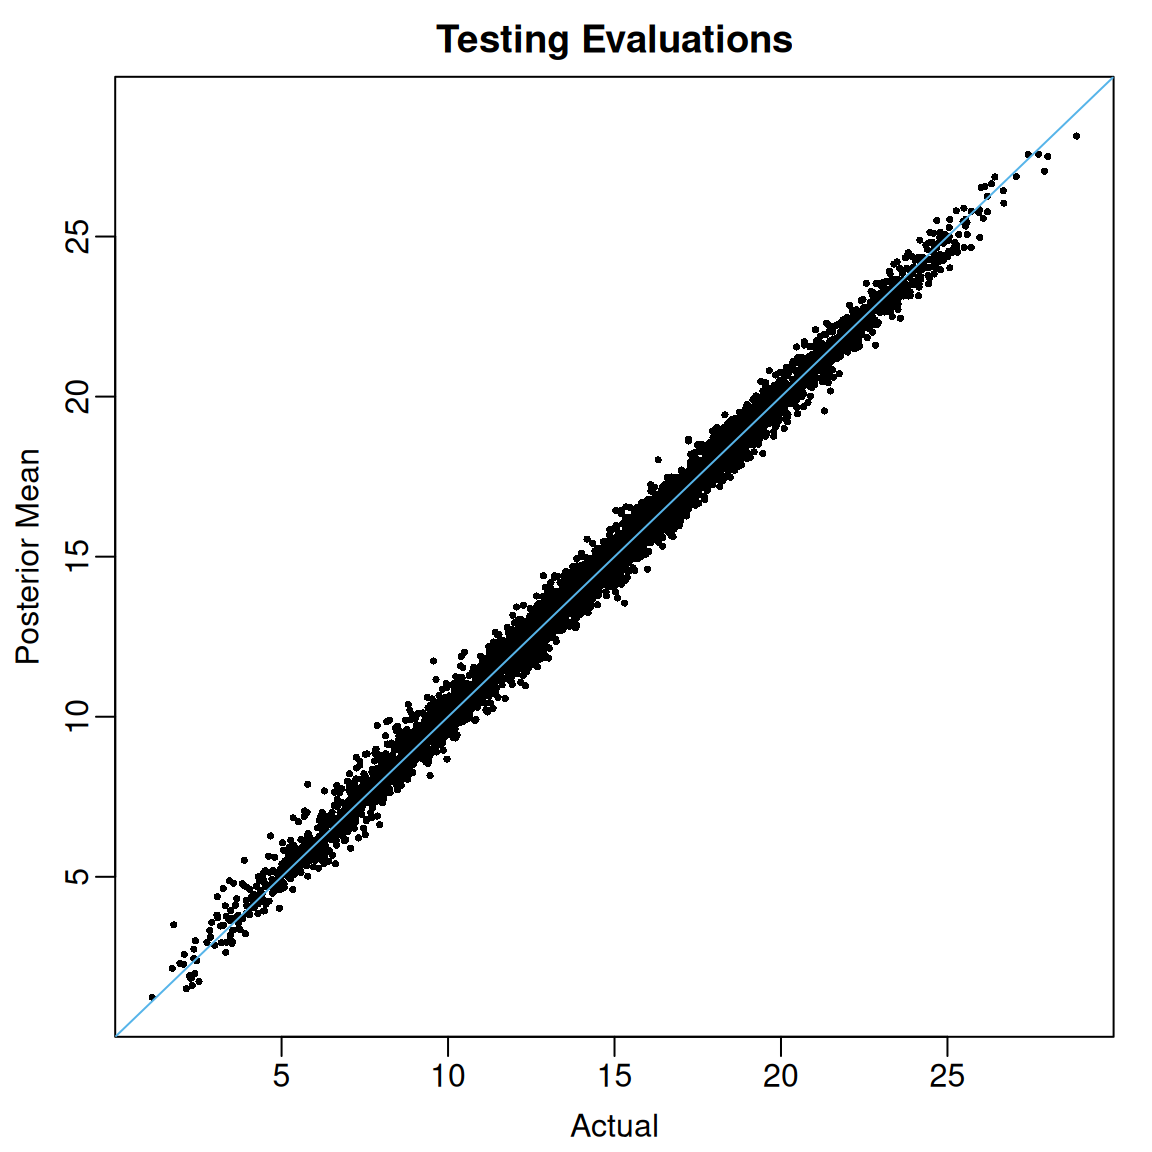
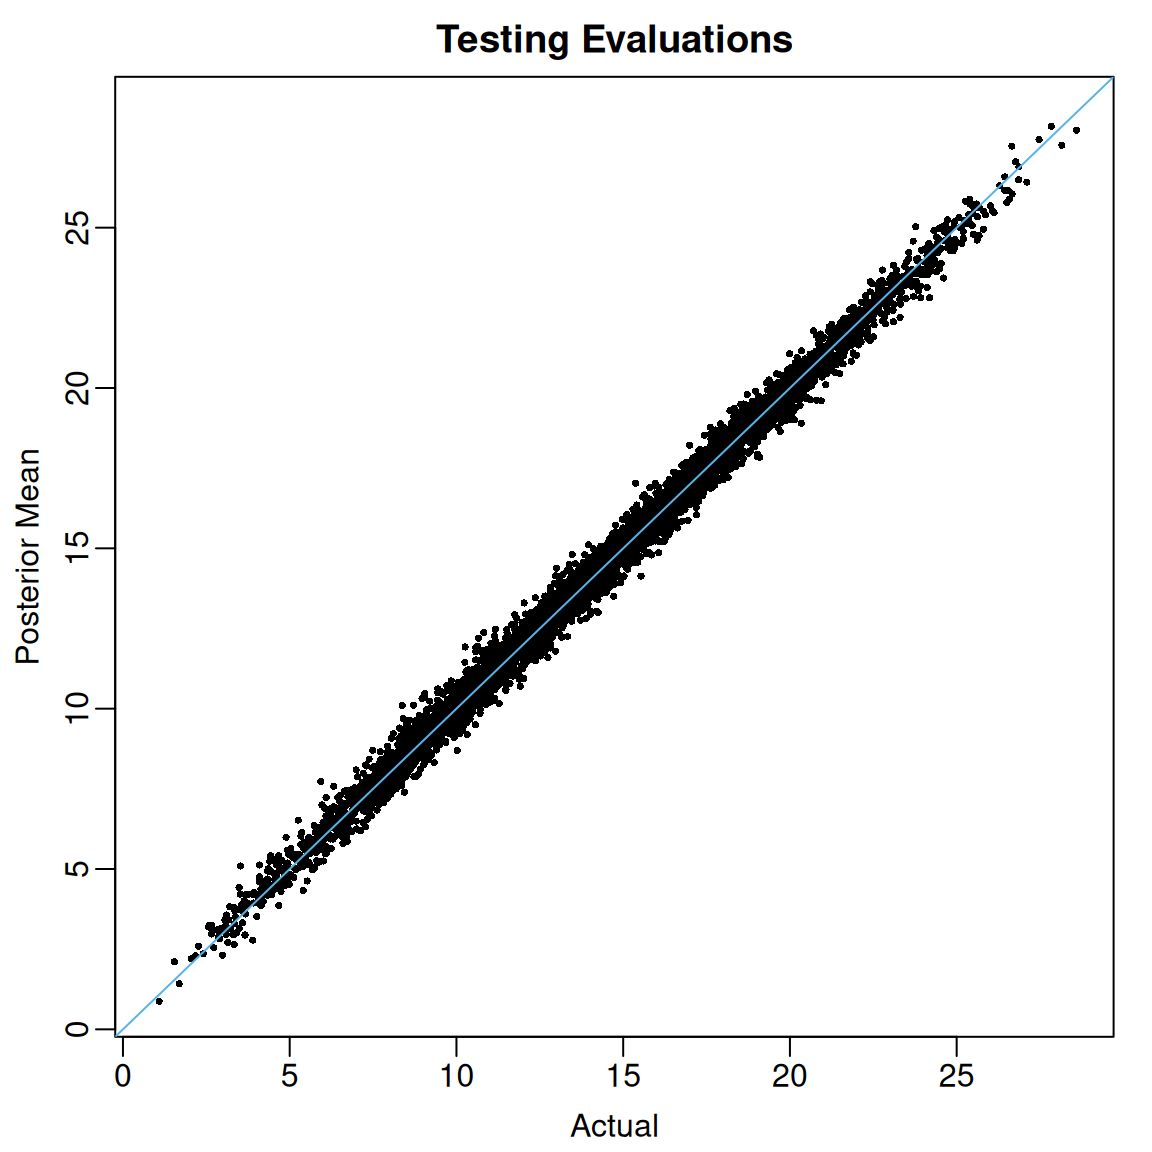
Deploying to gh-pages from @ skdeshpande91/flexBART@fedd042eb1f830406eadeb45e9672a2fcdba5437 🚀

diff --git a/reference/flexBART.html b/reference/flexBART.html
@@ -135,7 +135,22 @@ For continuous outcomes, <code>flexBART</code> fits regression models with condi
 Users can specify the appropriate error distribution using the optional arguments</p><ul><li><p><code>family</code>: a family object, or the result of a call to a family function. Currently only “gaussian” and “binomial” are supported. Default is “gaussian”.</p></li>
 </ul></div>
 
-
+<div class="section">
+<h3 id="numerical-predictors">Numerical predictors<a class="anchor" aria-label="anchor" href="#numerical-predictors"></a></h3>
+<p>Decision rules based on a numerical predictor \(X\) take the form \(\{X &lt; c\}\).
+The “cutpoint” \(c\) in such a decision rule at a given node in a regression tree is drawn uniformly from a set of available values of \(X\).
+This set of available values is determined by the decision rules at the node's ancestors in the tree.
+This set can be a discrete set of continuous interval, depending on the nature of \(X\).</p>
+<p><code>flexBART()</code> initially determins whether \(X\) is discrete (i.e., ordinal) or continuous by first sorting the unique values of \(X\) and computing consecutive differences.
+If there are fewer than (resp. more than) <code>n_unik_diffs</code> unique consecutive differences, \(X\) is treated as a discrete (resp., continuous) predictor.
+For discrete, numerical \(X\), the initial set of available cutpoints is set of unique values of \(X\).
+<code>flexBART()</code> rescales continuous \(X\) values to the interval [-1,1], which forms the initial set of available cutpoint values.
+When re-scaling a continuous \(X\), <code>flexBART()</code> <code>flexBART()</code> adds (resp. subtracts) <code>pad</code> standard deviations to the maximal (resp. minimal) value of \(X\).
+The maximal and minimal values and the standard deviation of \(X\) is determined using training data (i.e., <code>train_data</code>) and, if provided, the testing data (i.e., <code>test_data</code>).</p>
+<p>The amount of padding and the cut-off for</p>
+<ul><li><p><code>n_unik_diffs</code>: Threshold for the number of unique consecutive differences for a numerical predictor to be considered discrete. Default is 5.</p></li>
+<li><p><code>pad</code>: Number of standard deviations with which to pad range of continuous predictors before internally re-scaling to [-1,1]. Default is 0.2.</p></li>
+</ul></div>
 
 <div class="section">
 <h3 id="categorical-predictors">Categorical predictors<a class="anchor" aria-label="anchor" href="#categorical-predictors"></a></h3>
@@ -182,9 +197,10 @@ This argument is ignored when nested structure is not detected.</p>
 
 <div class="section">
 <h3 id="prior-specification-and-standardization">Prior specification and standardization<a class="anchor" aria-label="anchor" href="#prior-specification-and-standardization"></a></h3>
-<p>Internally, <code>flexBART()</code> re-centers and re-scales the outcome Y to have mean 0 and standard deviation 1.
+<p>Internally, <code>flexBART()</code> re-centers and re-scales continuous outcomes Y to have mean 0 and standard deviation 1.
 Except when \(Z_{r}\) is all ones (i.e., for intercept terms), <code>flexBART()</code> also standardizes the covariates to have mean 0 and standard deviation 1.
 It then places independent BART priors on the coefficients for the varying coefficient model on the standardized scale.</p>
+<p>No transformations are applied when <code>family</code> is “binomial”.</p>
 </div>
 
 <div class="section">
@@ -378,12 +394,10 @@ Only returned if <code>save_samples = TRUE</code>.</p></dd>
 <span class="r-in"><span><span class="co">## Fit flexBART model</span></span></span>
 <span class="r-in"><span><span class="va">fit</span> <span class="op">&lt;-</span></span></span>
 <span class="r-in"><span>  <span class="fu">flexBART</span><span class="op">(</span>formula <span class="op">=</span> <span class="va">Y</span><span class="op">~</span><span class="fu">bart</span><span class="op">(</span><span class="va">.</span><span class="op">)</span>,</span></span>
-<span class="r-in"><span>           train_data <span class="op">=</span> <span class="va">train_data</span>,</span></span>
-<span class="r-in"><span>           inform_sigma <span class="op">=</span> <span class="cn">TRUE</span>, sparse <span class="op">=</span> <span class="cn">TRUE</span>, </span></span>
-<span class="r-in"><span>           save_samples <span class="op">=</span> <span class="cn">FALSE</span><span class="op">)</span></span></span>
+<span class="r-in"><span>           train_data <span class="op">=</span> <span class="va">train_data</span><span class="op">)</span></span></span>
 <span class="r-out co"><span class="r-pr">#&gt;</span> [get_covariate_info]:  No padding for continuous variable ranges provided.</span>
-<span class="r-out co"><span class="r-pr">#&gt;</span> By default, flexBART adds 0.1 SDs to min and max values of each continuous variable.</span>
-<span class="r-out co"><span class="r-pr">#&gt;</span> no initial estimate of sigma provided. Initialize using LASSO</span>
+<span class="r-out co"><span class="r-pr">#&gt;</span> By default, flexBART adds 0.2 SDs to min and max values of each continuous variable.</span>
+<span class="r-out co"><span class="r-pr">#&gt;</span> no initial estimate of sigma provided. Initializing using LASSO</span>
 <span class="r-out co"><span class="r-pr">#&gt;</span> Initial sigma (after standardization) = 0.516291 </span>
 <span class="r-out co"><span class="r-pr">#&gt;</span> n.chains =  4 </span>
 <span class="r-out co"><span class="r-pr">#&gt;</span> n_train = 500 n_test = 0 </span>
@@ -391,7 +405,7 @@ Only returned if <code>save_samples = TRUE</code>.</p></dd>
 <span class="r-out co"><span class="r-pr">#&gt;</span> Number of trees:  50 </span>
 <span class="r-out co"><span class="r-pr">#&gt;</span> Implied marginal priors:</span>
 <span class="r-out co"><span class="r-pr">#&gt;</span>   Intercept: N(0, 1.690963) </span>
-<span class="r-out co"><span class="r-pr">#&gt;</span> Starting chain 1 at 2025-12-26 16:26:19 </span>
+<span class="r-out co"><span class="r-pr">#&gt;</span> Starting chain 1 at 2025-12-31 15:01:54 </span>
 <span class="r-out co"><span class="r-pr">#&gt;</span>   MCMC Iteration: 1 of 2000; Warmup</span>
 <span class="r-out co"><span class="r-pr">#&gt;</span>   MCMC Iteration: 200 of 2000; Warmup</span>
 <span class="r-out co"><span class="r-pr">#&gt;</span>   MCMC Iteration: 400 of 2000; Warmup</span>
@@ -403,8 +417,8 @@ Only returned if <code>save_samples = TRUE</code>.</p></dd>
 <span class="r-out co"><span class="r-pr">#&gt;</span>   MCMC Iteration: 1600 of 2000; Sampling</span>
 <span class="r-out co"><span class="r-pr">#&gt;</span>   MCMC Iteration: 1800 of 2000; Sampling</span>
 <span class="r-out co"><span class="r-pr">#&gt;</span>   MCMC Iteration: 2000 of 2000; Sampling</span>
-<span class="r-out co"><span class="r-pr">#&gt;</span> Ending chain 1 at 2025-12-26 16:26:20 </span>
-<span class="r-out co"><span class="r-pr">#&gt;</span> Starting chain 2 at 2025-12-26 16:26:20 </span>
+<span class="r-out co"><span class="r-pr">#&gt;</span> Ending chain 1 at 2025-12-31 15:01:55 </span>
+<span class="r-out co"><span class="r-pr">#&gt;</span> Starting chain 2 at 2025-12-31 15:01:55 </span>
 <span class="r-out co"><span class="r-pr">#&gt;</span>   MCMC Iteration: 1 of 2000; Warmup</span>
 <span class="r-out co"><span class="r-pr">#&gt;</span>   MCMC Iteration: 200 of 2000; Warmup</span>
 <span class="r-out co"><span class="r-pr">#&gt;</span>   MCMC Iteration: 400 of 2000; Warmup</span>
@@ -416,8 +430,8 @@ Only returned if <code>save_samples = TRUE</code>.</p></dd>
 <span class="r-out co"><span class="r-pr">#&gt;</span>   MCMC Iteration: 1600 of 2000; Sampling</span>
 <span class="r-out co"><span class="r-pr">#&gt;</span>   MCMC Iteration: 1800 of 2000; Sampling</span>
 <span class="r-out co"><span class="r-pr">#&gt;</span>   MCMC Iteration: 2000 of 2000; Sampling</span>
-<span class="r-out co"><span class="r-pr">#&gt;</span> Ending chain 2 at 2025-12-26 16:26:21 </span>
-<span class="r-out co"><span class="r-pr">#&gt;</span> Starting chain 3 at 2025-12-26 16:26:21 </span>
+<span class="r-out co"><span class="r-pr">#&gt;</span> Ending chain 2 at 2025-12-31 15:01:56 </span>
+<span class="r-out co"><span class="r-pr">#&gt;</span> Starting chain 3 at 2025-12-31 15:01:56 </span>
 <span class="r-out co"><span class="r-pr">#&gt;</span>   MCMC Iteration: 1 of 2000; Warmup</span>
 <span class="r-out co"><span class="r-pr">#&gt;</span>   MCMC Iteration: 200 of 2000; Warmup</span>
 <span class="r-out co"><span class="r-pr">#&gt;</span>   MCMC Iteration: 400 of 2000; Warmup</span>
@@ -429,8 +443,8 @@ Only returned if <code>save_samples = TRUE</code>.</p></dd>
 <span class="r-out co"><span class="r-pr">#&gt;</span>   MCMC Iteration: 1600 of 2000; Sampling</span>
 <span class="r-out co"><span class="r-pr">#&gt;</span>   MCMC Iteration: 1800 of 2000; Sampling</span>
 <span class="r-out co"><span class="r-pr">#&gt;</span>   MCMC Iteration: 2000 of 2000; Sampling</span>
-<span class="r-out co"><span class="r-pr">#&gt;</span> Ending chain 3 at 2025-12-26 16:26:22 </span>
-<span class="r-out co"><span class="r-pr">#&gt;</span> Starting chain 4 at 2025-12-26 16:26:22 </span>
+<span class="r-out co"><span class="r-pr">#&gt;</span> Ending chain 3 at 2025-12-31 15:01:57 </span>
+<span class="r-out co"><span class="r-pr">#&gt;</span> Starting chain 4 at 2025-12-31 15:01:57 </span>
 <span class="r-out co"><span class="r-pr">#&gt;</span>   MCMC Iteration: 1 of 2000; Warmup</span>
 <span class="r-out co"><span class="r-pr">#&gt;</span>   MCMC Iteration: 200 of 2000; Warmup</span>
 <span class="r-out co"><span class="r-pr">#&gt;</span>   MCMC Iteration: 400 of 2000; Warmup</span>
@@ -442,19 +456,18 @@ Only returned if <code>save_samples = TRUE</code>.</p></dd>
 <span class="r-out co"><span class="r-pr">#&gt;</span>   MCMC Iteration: 1600 of 2000; Sampling</span>
 <span class="r-out co"><span class="r-pr">#&gt;</span>   MCMC Iteration: 1800 of 2000; Sampling</span>
 <span class="r-out co"><span class="r-pr">#&gt;</span>   MCMC Iteration: 2000 of 2000; Sampling</span>
-<span class="r-out co"><span class="r-pr">#&gt;</span> Ending chain 4 at 2025-12-26 16:26:23 </span>
+<span class="r-out co"><span class="r-pr">#&gt;</span> Ending chain 4 at 2025-12-31 15:01:57 </span>
 <span class="r-in"><span>           </span></span>
 <span class="r-in"><span><span class="co"># \donttest{</span></span></span>
 <span class="r-in"><span>  <span class="co">## Plot the posterior mean regression function evaluations (i.e., fitted values)</span></span></span>
 <span class="r-in"><span>  <span class="co">## against the actual values. The points should cluster around the 45-degree diagonal</span></span></span>
 <span class="r-in"><span>  <span class="co">## line y=x</span></span></span>
-<span class="r-in"><span>  <span class="fu"><a href="https://rdrr.io/r/graphics/par.html" class="external-link">par</a></span><span class="op">(</span>mar <span class="op">=</span> <span class="fu"><a href="https://rdrr.io/r/base/c.html" class="external-link">c</a></span><span class="op">(</span><span class="fl">3</span>,<span class="fl">3</span>,<span class="fl">2</span>,<span class="fl">1</span><span class="op">)</span>, mgp <span class="op">=</span> <span class="fu"><a href="https://rdrr.io/r/base/c.html" class="external-link">c</a></span><span class="op">(</span><span class="fl">1.8</span>, <span class="fl">0.5</span>, <span class="fl">0</span><span class="op">)</span>, mfrow <span class="op">=</span> <span class="fu"><a href="https://rdrr.io/r/base/c.html" class="external-link">c</a></span><span class="op">(</span><span class="fl">1</span>,<span class="fl">2</span><span class="op">)</span><span class="op">)</span></span></span>
 <span class="r-in"><span>  <span class="fu"><a href="https://rdrr.io/r/graphics/plot.default.html" class="external-link">plot</a></span><span class="op">(</span><span class="va">mu_train</span>, <span class="va">fit</span><span class="op">$</span><span class="va">yhat.train.mean</span>, ,</span></span>
 <span class="r-in"><span>       pch <span class="op">=</span> <span class="fl">16</span>, cex <span class="op">=</span> <span class="fl">0.5</span>,</span></span>
 <span class="r-in"><span>       xlab <span class="op">=</span> <span class="st">"Actual"</span>, ylab <span class="op">=</span> <span class="st">"Predicted"</span>, main <span class="op">=</span> <span class="st">"Training"</span><span class="op">)</span></span></span>
 <span class="r-in"><span>  <span class="fu"><a href="https://rdrr.io/r/graphics/abline.html" class="external-link">abline</a></span><span class="op">(</span>a <span class="op">=</span> <span class="fl">0</span>, b <span class="op">=</span> <span class="fl">1</span>, col <span class="op">=</span> <span class="st">'blue'</span><span class="op">)</span></span></span>
-<span class="r-in"><span><span class="co"># }</span></span></span>
 <span class="r-plt img"><img src="flexBART-1.png" alt="" width="700" height="433"></span>
+<span class="r-in"><span><span class="co"># }</span></span></span>
 </code></pre></div>
     </div>
   </main><aside class="col-md-3"><nav id="toc" aria-label="Table of contents"><h2>On this page</h2>

diff --git a/articles/flexBART.html b/articles/flexBART.html
@@ -161,9 +161,9 @@ Figure 1: Actual (horizontal) vs fitted (vertical) values of regression functio
 <span>  <span class="fu"><a href="https://rdrr.io/r/base/as.data.frame.html" class="external-link">as.data.frame</a></span><span class="op">(</span><span class="op">)</span></span>
 <span></span>
 <span><span class="fu"><a href="https://rdrr.io/r/base/mean.html" class="external-link">mean</a></span><span class="op">(</span> <span class="va">mu_train</span> <span class="op">&gt;=</span> <span class="va">post_quantiles</span><span class="op">[</span>,<span class="st">"2.5%"</span><span class="op">]</span> <span class="op">&amp;</span> <span class="va">mu_train</span> <span class="op">&lt;=</span> <span class="va">post_quantiles</span><span class="op">[</span>,<span class="st">"97.5%"</span><span class="op">]</span><span class="op">)</span></span>
-<span><span class="co">#&gt; [1] 0.9775</span></span></code></pre></div>
+<span><span class="co">#&gt; [1] 0.972</span></span></code></pre></div>
 </div>
-<p>For these data, the coverage of the pointwise 95% credible intervals is 97.75%.</p>
+<p>For these data, the coverage of the pointwise 95% credible intervals is 97.2%.</p>
 </section><section class="level3"><h3 id="variable-importance">Variable Importance<a class="anchor" aria-label="anchor" href="#variable-importance"></a>
 </h3>
 <p>Intuitively, we might expect the <math display="inline" xmlns="http://www.w3.org/1998/Math/MathML"><semantics><mi>j</mi><annotation encoding="application/x-tex">j</annotation></semantics></math>-th covariate <math display="inline" xmlns="http://www.w3.org/1998/Math/MathML"><semantics><msub><mi>X</mi><mi>j</mi></msub><annotation encoding="application/x-tex">X_{j}</annotation></semantics></math> to be predictive of the outcome <math display="inline" xmlns="http://www.w3.org/1998/Math/MathML"><semantics><mi>Y</mi><annotation encoding="application/x-tex">Y</annotation></semantics></math> if <math display="inline" xmlns="http://www.w3.org/1998/Math/MathML"><semantics><msub><mi>X</mi><mi>j</mi></msub><annotation encoding="application/x-tex">X_{j}</annotation></semantics></math> is used as a splitting variable at least once in the tree ensemble. We can operationalize this intuition by computing marginal posterior inclusion probabilities of the form <math display="block" xmlns="http://www.w3.org/1998/Math/MathML"><semantics><mrow><mi>ℙ</mi><mrow><mo stretchy="true" form="prefix">(</mo><msub><mi>X</mi><mi>j</mi></msub><mrow><mspace width="0.333em"></mspace><mtext mathvariant="normal"> used at least once</mtext></mrow><mo stretchy="false" form="postfix">|</mo><mi>𝐲</mi><mo stretchy="true" form="postfix">)</mo></mrow></mrow><annotation encoding="application/x-tex">
@@ -200,9 +200,9 @@ Figure 1: Actual (horizontal) vs fitted (vertical) values of regression functio
 <span>        FUN <span class="op">=</span> <span class="va">quantile</span>, probs <span class="op">=</span> <span class="fu"><a href="https://rdrr.io/r/base/c.html" class="external-link">c</a></span><span class="op">(</span><span class="fl">0.025</span>, <span class="fl">0.975</span><span class="op">)</span><span class="op">)</span> <span class="op">|&gt;</span></span>
 <span>  <span class="fu"><a href="https://rdrr.io/r/base/t.html" class="external-link">t</a></span><span class="op">(</span><span class="op">)</span></span>
 <span><span class="fu"><a href="https://rdrr.io/r/base/mean.html" class="external-link">mean</a></span><span class="op">(</span> <span class="va">train_data</span><span class="op">$</span><span class="va">Y</span> <span class="op">&gt;=</span> <span class="va">ystar_quantiles</span><span class="op">[</span>,<span class="st">"2.5%"</span><span class="op">]</span> <span class="op">&amp;</span> <span class="va">train_data</span><span class="op">$</span><span class="va">Y</span> <span class="op">&lt;=</span> <span class="va">ystar_quantiles</span><span class="op">[</span>,<span class="st">"97.5%"</span><span class="op">]</span><span class="op">)</span></span>
-<span><span class="co">#&gt; [1] 0.959</span></span></code></pre></div>
+<span><span class="co">#&gt; [1] 0.96</span></span></code></pre></div>
 </div>
-<p>At least for this example, we see that 95.9% of the observed <math display="inline" xmlns="http://www.w3.org/1998/Math/MathML"><semantics><msub><mi>y</mi><mi>i</mi></msub><annotation encoding="application/x-tex">y_{i}</annotation></semantics></math>’s fall within the predictive intervals.</p>
+<p>At least for this example, we see that 96% of the observed <math display="inline" xmlns="http://www.w3.org/1998/Math/MathML"><semantics><msub><mi>y</mi><mi>i</mi></msub><annotation encoding="application/x-tex">y_{i}</annotation></semantics></math>’s fall within the predictive intervals.</p>
 </section></section><section class="level2"><h2 id="making-predictions">Making Predictions<a class="anchor" aria-label="anchor" href="#making-predictions"></a>
 </h2>
 <p>So far, we have focused only on the posterior distribution of the regression function evaluated at the observed covariates <math display="inline" xmlns="http://www.w3.org/1998/Math/MathML"><semantics><mrow><msub><mi>𝐱</mi><mn>1</mn></msub><mo>,</mo><mi>…</mi><mo>,</mo><msub><mi>𝐱</mi><mi>n</mi></msub><mi>.</mi></mrow><annotation encoding="application/x-tex">\boldsymbol{\mathbf{x}}_{1}, \ldots, \boldsymbol{\mathbf{x}}_{n}.</annotation></semantics></math> There are two ways to compute the posterior distribution of regression function evaluations at new values of the covariate vector <math display="inline" xmlns="http://www.w3.org/1998/Math/MathML"><semantics><mrow><msubsup><mi>𝐱</mi><mn>1</mn><mo>⋆</mo></msubsup><mo>,</mo><mi>…</mi><mo>,</mo><msubsup><mi>𝐱</mi><mi>N</mi><mo>⋆</mo></msubsup><mi>.</mi></mrow><annotation encoding="application/x-tex">\boldsymbol{\mathbf{x}}^{\star}_{1}, \ldots, \boldsymbol{\mathbf{x}}^{\star}_{N}.</annotation></semantics></math> To demonstrate these options, we first create some test set observations</p>
@@ -261,7 +261,7 @@ Figure 2: Actual (horizontal) vs fitted (vertical) values of regression functio
 <div class="cell">
 <div class="sourceCode cell-code" id="cb13"><pre class="downlit sourceCode r">
 <code class="sourceCode R"><span><span class="fu"><a href="https://rdrr.io/r/base/range.html" class="external-link">range</a></span><span class="op">(</span><span class="va">fit2</span><span class="op">$</span><span class="va">yhat.train</span> <span class="op">-</span> <span class="va">train_preds</span><span class="op">)</span></span>
-<span><span class="co">#&gt; [1] -3.161915e-13  3.339551e-13</span></span></code></pre></div>
+<span><span class="co">#&gt; [1] -3.232969e-13  2.948752e-13</span></span></code></pre></div>
 </div>
 <p>In this case, the difference is within tolerable numerical precision.</p>
 <p>We can also plot the posterior means on the test data from the two different approaches. We see that they are very closely aligned.</p>
